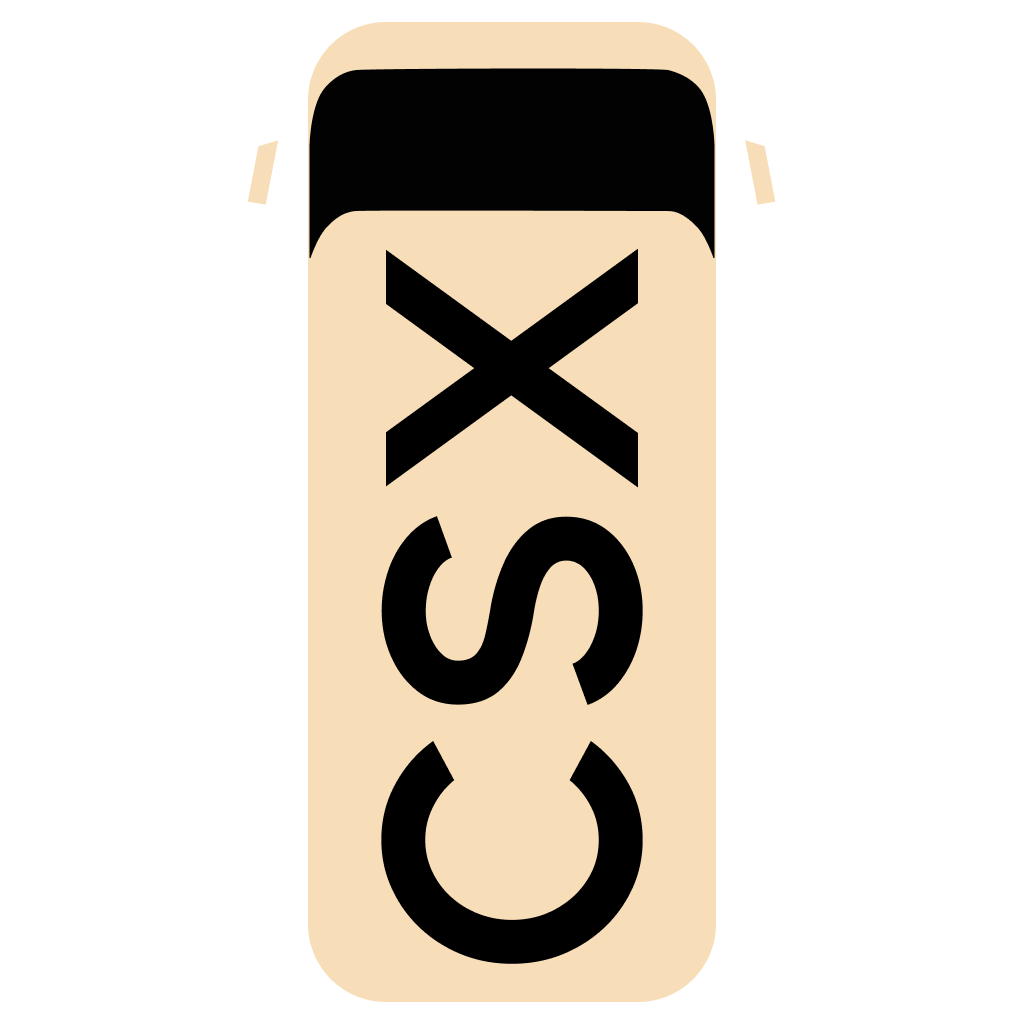
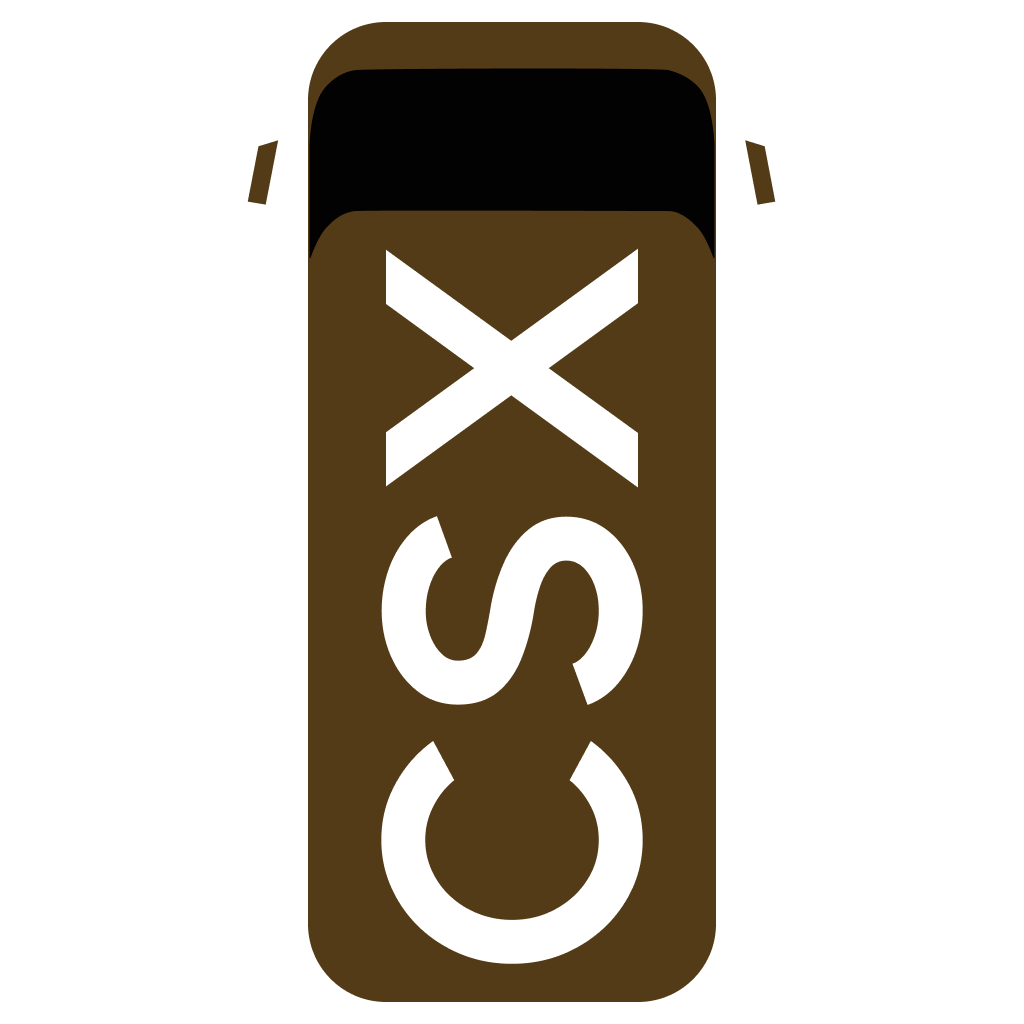
more bus color updates

diff --git a/src/v3.ts b/src/v3.ts
@@ -47,7 +47,7 @@ class BusColorManager {
         { routeId: "BB", color: "#2F773F", image: "bus_BB.png" },
         { routeId: "CN", color: "#643076", image: "bus_CN.png" },
         { routeId: "CS", color: "#3559B8", image: "bus_CS.png" },
-        { routeId: "CSX", color: "#F7DEB9", image: "bus_CSX.png" },
+        { routeId: "CSX", color: "#543B17", image: "bus_CSX.png" },
         { routeId: "DD", color: "#A9C534", image: "bus_DD.png" },
         { routeId: "MX", color: "#5EC7DE", image: "bus_MX.png" },
         { routeId: "NE", color: "#C55188", image: "bus_NE.png" },
@@ -55,8 +55,8 @@ class BusColorManager {
         { routeId: "NX", color: "#DA4343", image: "bus_NX.png" },
         { routeId: "OS", color: "#E8A43C", image: "bus_OS.png" },
         { routeId: "NES", color: "#C55188", image: "bus_NES.png" },
-        { routeId: "WS", color: "#2F7765", image: "bus_WS.png" },
-        { routeId: "WX", color: "#3E9E86", image: "bus_WX.png" }
+        { routeId: "WS", color: "#BA5231", image: "bus_WS.png" },
+        { routeId: "WX", color: "#E8663E", image: "bus_WX.png" }
     ];
 
     public getRouteColor(routeId: string): string | null {
